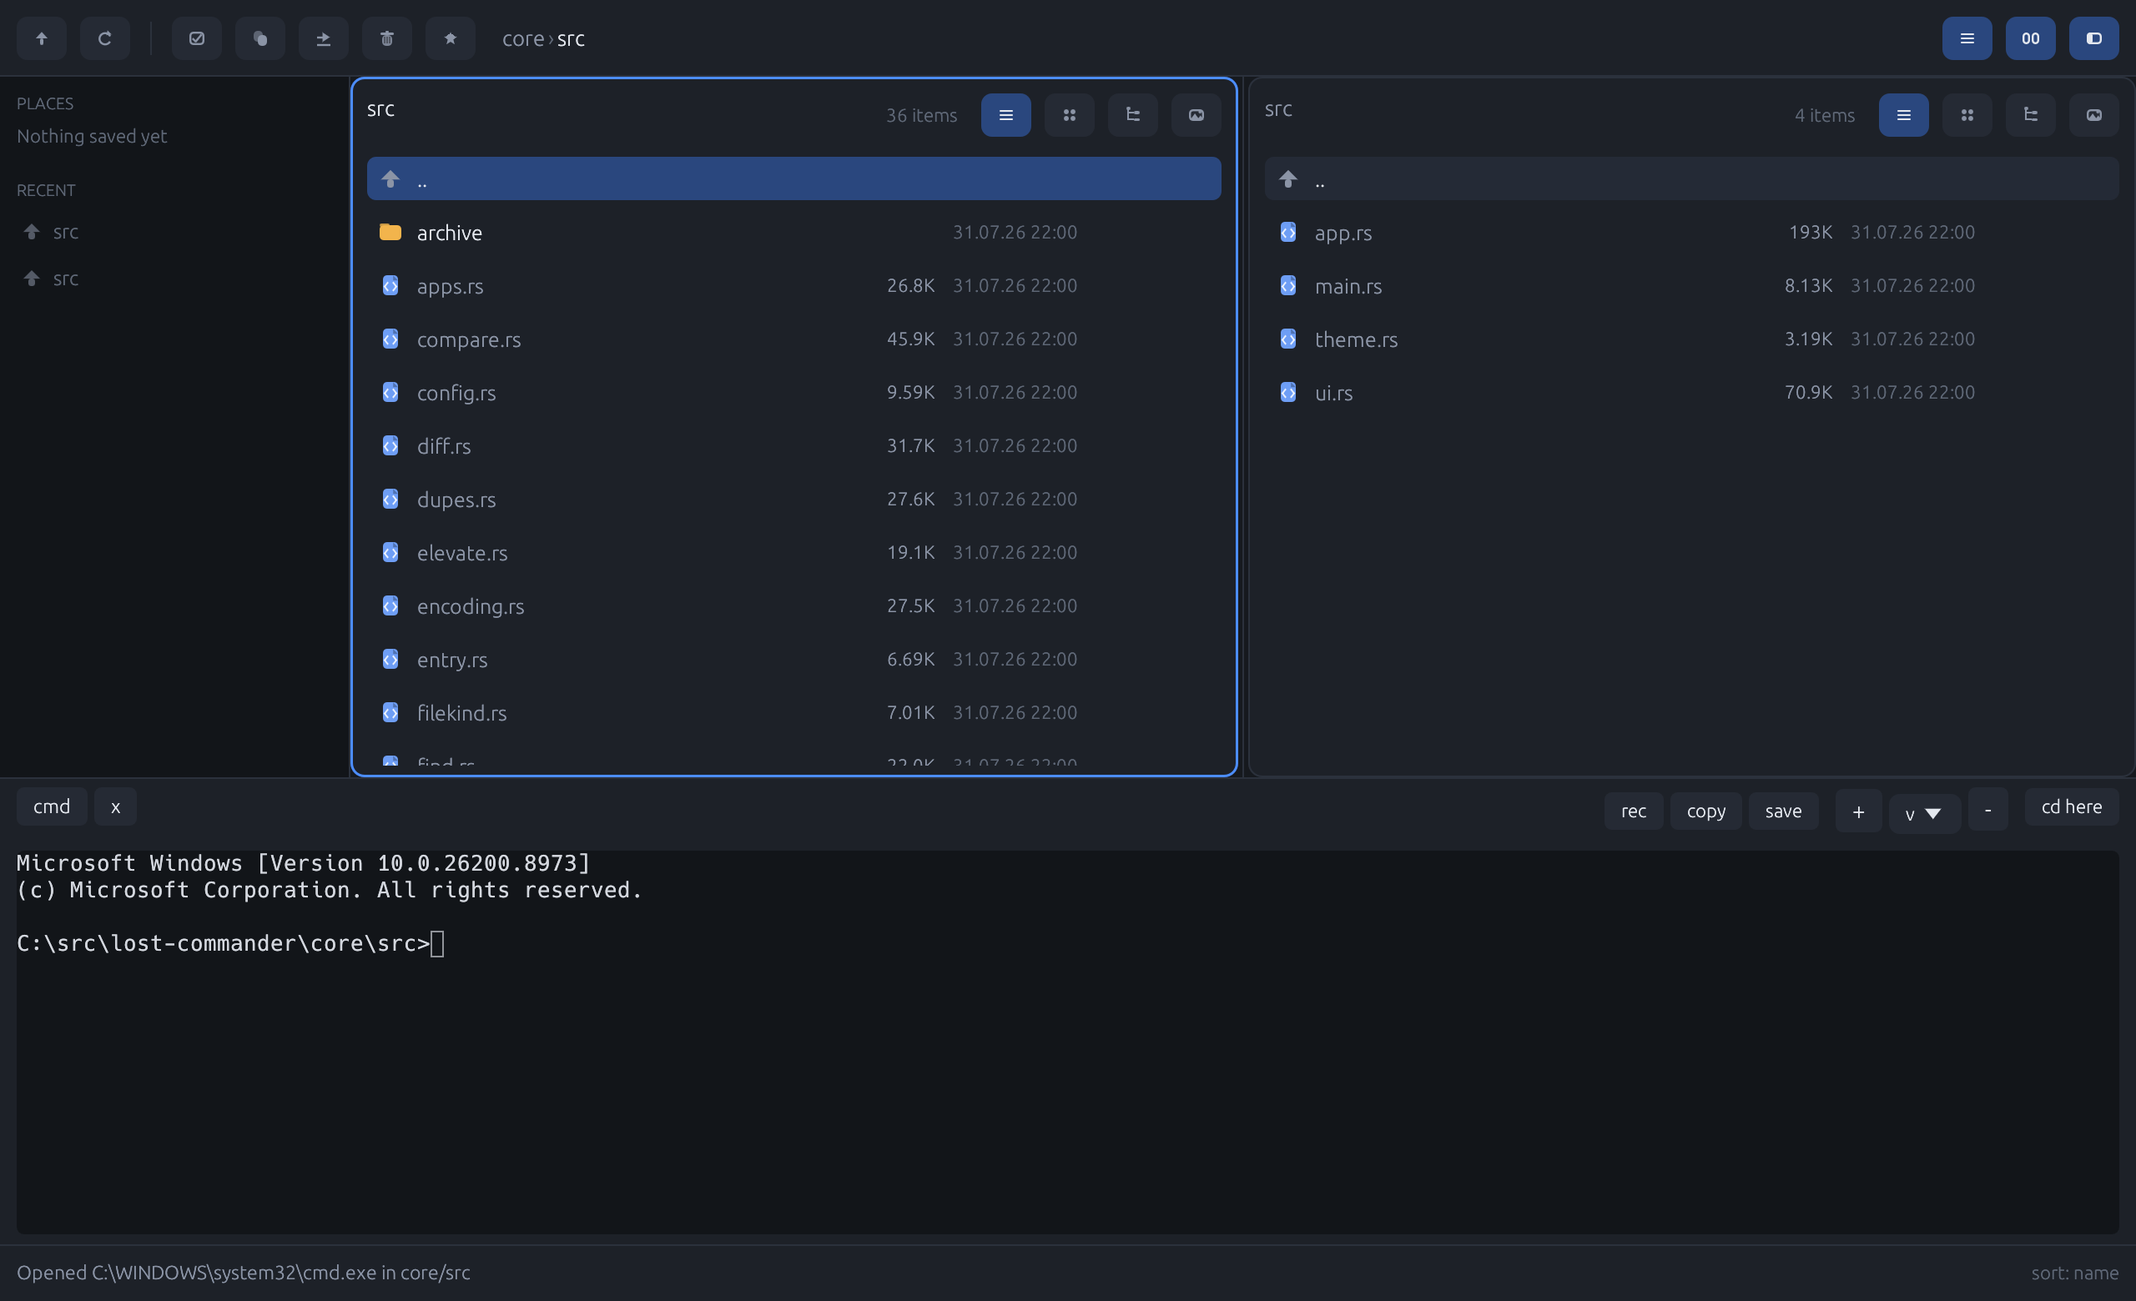
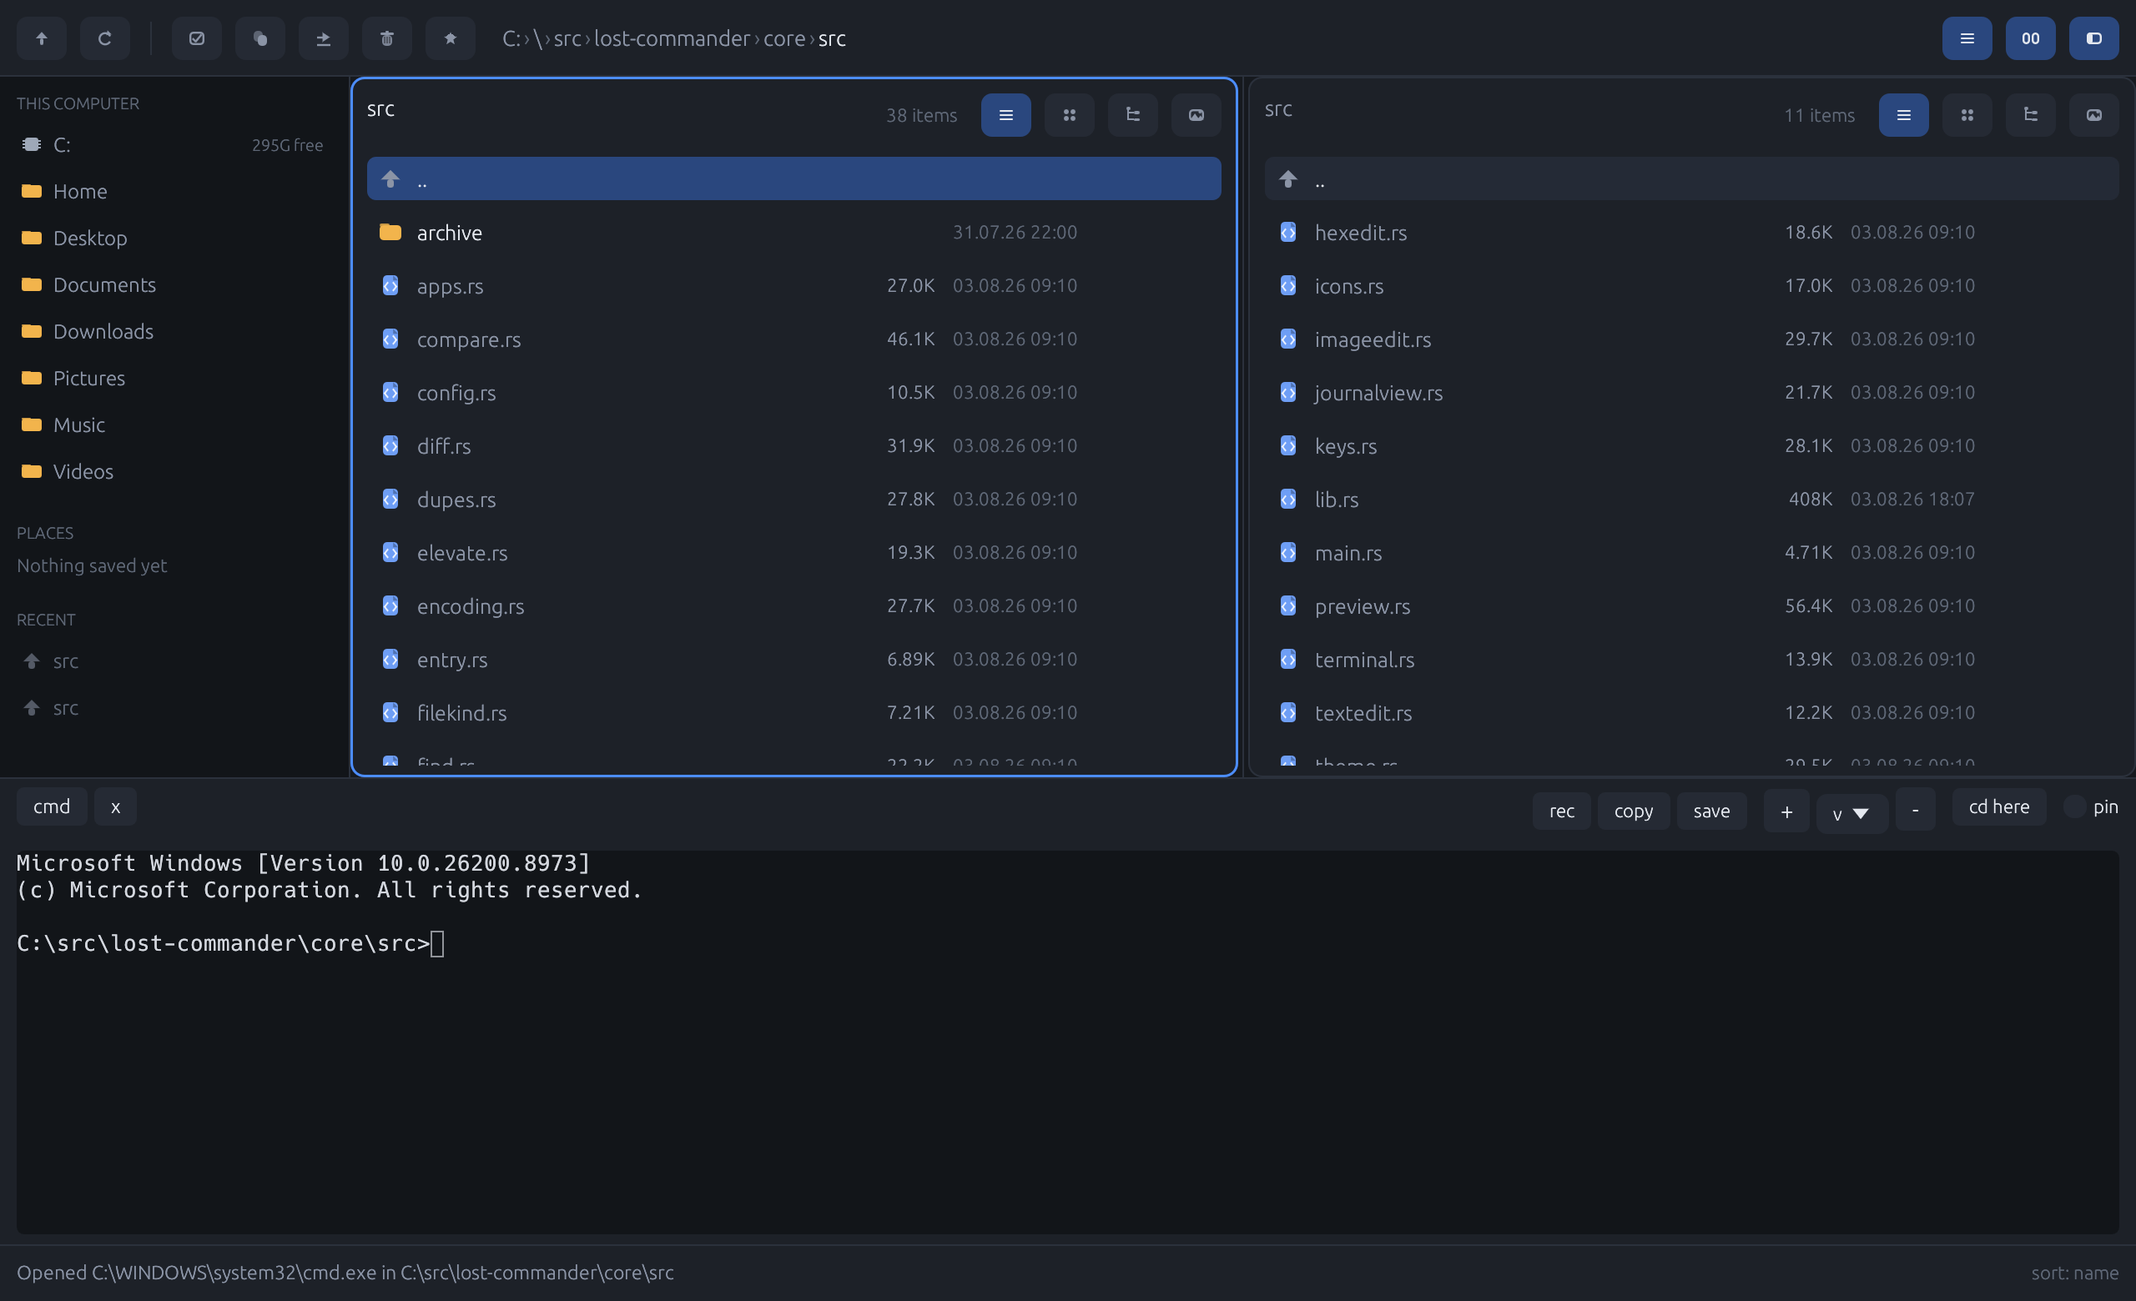
The terminal view can find the drives too, and a drive says what is left
`Ctrl-B` had Saved and Recent; it has a third tab now, This computer, holding
what `core::places` finds. The same gap as the sidebar had and the same fix:
without it the only route to a second drive is to know its letter and type
it.

The dialog now draws rows of name and description rather than
`netloc::Location`, because the three tabs are made of two different types and
the drawing never cared which.

Free space, on drives only. The C# front-end has shown it since it was
written - `DriveInfo` hands .NET the label, the free bytes and the drive type
for nothing - and asking the same question from Rust needs `statvfs` on Unix
and `GetDiskFreeSpaceEx` on Windows, which is what `fs4` is here for. It is
the only platform-API dependency in the engine and it earns it: how much room
is left is the first thing anybody wants of a drive.

Not on folders. The same figure under Documents, Downloads and Pictures says
nothing - they are all the same disk.

A drive that will not answer - an empty optical drive, a card reader with no
card - reports nothing rather than zero, which would read as a full disk.

The screenshot in the README is regenerated, since the sidebar it showed no
longer exists.

And a failure I nearly pushed: `tab_switches_between_saved_and_recent` broke
the moment there were three tabs, and my check summed the passing counts
without looking at whether anything had failed. The total dropped by eight
[…]

diff --git a/tui/src/app.rs b/tui/src/app.rs
@@ -143,13 +143,21 @@ impl RenameField {
 pub enum ConnTab {
     Saved,
     Recent,
+    /// The drives and folders this machine already has.
+    ///
+    /// Without them there is no way to reach a second drive except to know
+    /// its letter and type it - and on Windows there is no root to walk up to
+    /// that would reveal one, since `C:` and `D:` are two trees rather than
+    /// two directories.
+    System,
 }
 
 impl ConnTab {
     pub fn other(self) -> ConnTab {
         match self {
             ConnTab::Saved => ConnTab::Recent,
-            ConnTab::Recent => ConnTab::Saved,
+            ConnTab::Recent => ConnTab::System,
+            ConnTab::System => ConnTab::Saved,
         }
     }
 }
@@ -390,6 +398,12 @@ pub struct App {
     /// whatever directory it is given and forgets everything the last one
     /// did. Started on first use, because most of what this program does
     /// needs no shell at all and a pty costs a process.
+    /// The drives and folders this machine offers.
+    ///
+    /// Read once at startup: finding them asks each drive letter whether it
+    /// answers, and doing that on every keystroke is a thing you would hear a
+    /// spinning disk doing.
+    pub system_places: Vec<lost_commander_core::places::Place>,
     pub shell: Option<lost_commander_core::pty::PtySession>,
     /// Which shell to run, when the reader has chosen one.
     ///
@@ -505,6 +519,7 @@ impl App {
             command: String::new(),
             pending_edit: None,
             pending_shell: None,
+            system_places: lost_commander_core::places::system_places(),
             shell: None,
             shell_program: None,
             showing_shell: false,
@@ -3032,6 +3047,7 @@ impl App {
         let count = match tab_value {
             ConnTab::Saved => self.bookmarks.len(),
             ConnTab::Recent => self.bookmarks.recent.len(),
+            ConnTab::System => self.system_places.len(),
         };
 
         match key.code {
@@ -3057,6 +3073,16 @@ impl App {
                         self.error("No saved locations - press 'a' to add one");
                     } else {
                         self.connect_bookmark(cursor_value);
+                    }
+                }
+                ConnTab::System => {
+                    if let Some(place) = self.system_places.get(cursor_value) {
+                        let path = place.path.clone();
+                        self.mode = Mode::Normal;
+                        self.active_panel_mut().chdir(path.clone());
+                        if let Some(error) = self.active_panel().error.clone() {
+                            self.error(format!("{}: {error}", path.display()));
+                        }
                     }
                 }
                 ConnTab::Recent => {
@@ -3128,10 +3154,13 @@ impl App {
                         ConnTab::Recent => {
                             self.bookmarks.remove_recent(cursor_value);
                         }
+                        // A drive is not ours to forget.
+                        ConnTab::System => {}
                     }
                     let remaining = match tab_value {
                         ConnTab::Saved => self.bookmarks.len(),
                         ConnTab::Recent => self.bookmarks.recent.len(),
+                        ConnTab::System => self.system_places.len(),
                     };
                     self.mode = Mode::Connections {
                         tab: tab_value,
@@ -5516,7 +5545,7 @@ mod tests {
     }
 
     #[test]
-    fn tab_switches_between_saved_and_recent() {
+    fn tab_walks_the_three_lists_and_comes_back_round() {
         let (_root, mut app) = app_fixture();
         app.on_key(key(KeyCode::F(11)));
         match app.mode {
@@ -5533,11 +5562,29 @@ mod tests {
             _ => panic!("expected the connections screen"),
         }
 
+        // Three now: the machine's own drives and folders are the third,
+        // and are the only way to reach a second drive without knowing its
+        // letter and typing it.
+        app.on_key(key(KeyCode::Tab));
+        match app.mode {
+            Mode::Connections { tab, .. } => assert_eq!(tab, ConnTab::System),
+            _ => panic!("expected the connections screen"),
+        }
+
         app.on_key(key(KeyCode::Tab));
         match app.mode {
             Mode::Connections { tab, .. } => assert_eq!(tab, ConnTab::Saved),
             _ => panic!("expected the connections screen"),
         }
+    }
+
+    #[test]
+    fn the_machine_offers_at_least_one_place_to_go() {
+        // A drive is always there - the root on Unix, at least one letter on
+        // Windows - so an empty list means discovery is broken rather than
+        // that the machine has no disks.
+        let (_root, app) = app_fixture();
+        assert!(!app.system_places.is_empty());
     }
 
     #[test]

diff --git a/tui/src/ui.rs b/tui/src/ui.rs
@@ -2062,9 +2062,39 @@ fn shorten_path(path: &str, width: usize) -> String {
 }
 
 fn draw_connections(frame: &mut Frame, area: Rect, app: &App, tab: ConnTab, cursor: usize) {
-    let entries: &[lost_commander_core::netloc::Location] = match tab {
-        ConnTab::Saved => &app.bookmarks.locations,
-        ConnTab::Recent => &app.bookmarks.recent,
+    // Name and description, whatever the tab is made of: saved locations and
+    // recent ones are `netloc::Location`, the machine's own drives are
+    // `places::Place`, and the dialog draws rows rather than types.
+    let entries: Vec<(String, String)> = match tab {
+        ConnTab::Saved => app
+            .bookmarks
+            .locations
+            .iter()
+            .map(|l| (l.name.clone(), l.summary()))
+            .collect(),
+        ConnTab::Recent => app
+            .bookmarks
+            .recent
+            .iter()
+            .map(|l| (l.name.clone(), l.summary()))
+            .collect(),
+        ConnTab::System => app
+            .system_places
+            .iter()
+            .map(|place| {
+                let where_ = place.path.display().to_string();
+                match place.free {
+                    // How much room is left is the first thing anybody wants
+                    // of a drive, and there is nowhere else in this dialog to
+                    // put it.
+                    Some(free) => (
+                        place.name.clone(),
+                        format!("{where_}   {} free", human_size(free)),
+                    ),
+                    None => (place.name.clone(), where_),
+                }
+            })
+            .collect(),
     };
 
     let rows = entries.len().max(1);
@@ -2104,6 +2134,11 @@ fn draw_connections(frame: &mut Frame, area: Rect, app: &App, tab: ConnTab, curs
                 format!(" Recent ({}) ", app.bookmarks.recent.len()),
                 tab_style(tab == ConnTab::Recent),
             ),
+            Span::styled("  ", Style::default().bg(theme::DIALOG_BG)),
+            Span::styled(
+                format!(" This computer ({}) ", app.system_places.len()),
+                tab_style(tab == ConnTab::System),
+            ),
             Span::styled(
                 "   Tab switches",
                 Style::default().bg(theme::DIALOG_BG).fg(theme::TITLE_FG),
@@ -2116,6 +2151,7 @@ fn draw_connections(frame: &mut Frame, area: Rect, app: &App, tab: ConnTab, curs
         let message = match tab {
             ConnTab::Saved => "No saved locations yet - press 'a' to add one.",
             ConnTab::Recent => "Nowhere visited yet.",
+            ConnTab::System => "No drives found, which should not happen.",
         };
         frame.render_widget(
             Paragraph::new(message).style(Style::default().bg(theme::DIALOG_BG).fg(theme::FILE_FG)),
@@ -2125,14 +2161,11 @@ fn draw_connections(frame: &mut Frame, area: Rect, app: &App, tab: ConnTab, curs
         let items: Vec<ListItem> = entries
             .iter()
             .enumerate()
-            .map(|(index, location)| {
+            .map(|(index, (name, about))| {
                 let text = format!(
                     " {:<18} {}",
-                    fit(&location.name, 18),
-                    fit(
-                        &location.summary(),
-                        split[1].width.saturating_sub(21) as usize
-                    )
+                    fit(name, 18),
+                    fit(about, split[1].width.saturating_sub(21) as usize)
                 );
                 let style = if index == cursor {
                     Style::default()
@@ -2158,6 +2191,7 @@ fn draw_connections(frame: &mut Frame, area: Rect, app: &App, tab: ConnTab, curs
     let hints = match tab {
         ConnTab::Saved => "Enter go  a add  c add cwd  u unmount  d delete  Esc close",
         ConnTab::Recent => "Enter go  s save  d forget  C forget all  Esc close",
+        ConnTab::System => "Enter go  Tab next tab  Esc close",
     };
     frame.render_widget(
         Paragraph::new(Span::styled(

diff --git a/core/src/places.rs b/core/src/places.rs
@@ -37,6 +37,13 @@ pub struct Place {
     pub name: String,
     pub path: PathBuf,
     pub kind: Kind,
+    /// Bytes free on the disk this sits on, where that could be asked.
+    ///
+    /// How much room is left is the first thing anybody wants to know of a
+    /// drive, and the Commanders have shown it since there were floppies.
+    /// `None` for a folder - repeating the same figure under Documents,
+    /// Downloads and Pictures says nothing, since they are all the same disk.
+    pub free: Option<u64>,
 }
 
 /// The user's home and the well-known folders inside it.
@@ -51,6 +58,7 @@ pub fn user_places(home: Option<PathBuf>, folders: &[(&str, Option<PathBuf>)]) -
             name: "Home".to_string(),
             path: home,
             kind: Kind::Home,
+            free: None,
         });
     }
     for (name, path) in folders {
@@ -64,6 +72,7 @@ pub fn user_places(home: Option<PathBuf>, folders: &[(&str, Option<PathBuf>)]) -
             name: (*name).to_string(),
             path: path.clone(),
             kind: Kind::Folder,
+            free: None,
         });
     }
     out
@@ -91,6 +100,7 @@ pub fn drives(
                 if exists(&path) {
                     out.push(Place {
                         name: format!("{}:", letter as char),
+                        free: free_on(&path),
                         path,
                         kind: Kind::Drive,
                     });
@@ -100,6 +110,7 @@ pub fn drives(
         platform => {
             out.push(Place {
                 name: "/".to_string(),
+                free: free_on(Path::new("/")),
                 path: PathBuf::from("/"),
                 kind: Kind::Drive,
             });
@@ -132,6 +143,7 @@ pub fn drives(
                     }
                     out.push(Place {
                         name,
+                        free: free_on(&path),
                         path,
                         kind: Kind::Drive,
                     });
@@ -140,6 +152,16 @@ pub fn drives(
         }
     }
     out
+}
+
+/// Bytes free on the disk holding `path`, or `None` if it will not say.
+///
+/// A drive that is not ready - an empty optical drive, a card reader with no
+/// card - answers with an error rather than a number, and asking again will
+/// not help. `None` is the honest result, and a front-end showing nothing
+/// beats one showing zero, which reads as a full disk.
+pub fn free_on(path: &Path) -> Option<u64> {
+    fs4::available_space(path).ok()
 }
 
 /// Everything this machine offers, for a sidebar.
@@ -226,5 +248,31 @@ mod tests {
         // A service account may have none, and a sidebar with only drives is
         // still a useful sidebar.
         assert!(user_places(None, &[("Downloads", None)]).is_empty());
+    }
+
+    #[test]
+    fn a_drive_says_how_much_room_is_left_and_a_folder_does_not() {
+        // Repeating the same figure under Documents, Downloads and Pictures
+        // says nothing: they are all the same disk.
+        let places = system_places();
+        let drive = places.iter().find(|p| p.kind == Kind::Drive);
+        if let Some(drive) = drive {
+            assert!(
+                drive.free.is_some(),
+                "a mounted drive knows: {}",
+                drive.path.display()
+            );
+        }
+        assert!(places
+            .iter()
+            .filter(|p| p.kind == Kind::Folder)
+            .all(|p| p.free.is_none()));
+    }
+
+    #[test]
+    fn a_drive_that_will_not_say_is_not_reported_as_empty() {
+        // An optical drive with no disc in it answers with an error, and
+        // showing zero would read as a full disk rather than an unknown one.
+        assert_eq!(free_on(Path::new("Z:\no-such-drive")), None);
     }
 }

diff --git a/egui/src/lib.rs b/egui/src/lib.rs
@@ -2187,7 +2187,10 @@ impl GuiApp {
                     places::Kind::Home => icons::Kind::Folder,
                     places::Kind::Folder => icons::Kind::Folder,
                 };
-                if sidebar_row(ui, &place.name, icon, false) {
+                let free = place
+                    .free
+                    .map(|bytes| format!("{} free", human_size(bytes)));
+                if sidebar_row_with(ui, &place.name, icon, false, free) {
                     target = Some(place.path.clone());
                 }
             }
@@ -7154,6 +7157,20 @@ fn section_label(ui: &mut egui::Ui, text: &str) {
 }
 
 fn sidebar_row(ui: &mut egui::Ui, label: &str, kind: icons::Kind, dim: bool) -> bool {
+    sidebar_row_with(ui, label, kind, dim, None)
+}
+
+/// As [`sidebar_row`], with something written along the right-hand edge.
+///
+/// Used for how much room is left on a drive - the first thing anybody wants
+/// to know of one, and shown since there were floppies to run out of.
+fn sidebar_row_with(
+    ui: &mut egui::Ui,
+    label: &str,
+    kind: icons::Kind,
+    dim: bool,
+    trailing: Option<String>,
+) -> bool {
     let (rect, response) =
         ui.allocate_exact_size(Vec2::new(ui.available_width(), 22.0), Sense::click());
     if response.hovered() {
@@ -7176,6 +7193,15 @@ fn sidebar_row(ui: &mut egui::Ui, label: &str, kind: icons::Kind, dim: bool) -> 
             theme::text_dim()
         },
     );
+    if let Some(trailing) = trailing {
+        ui.painter().text(
+            egui::pos2(rect.right() - 6.0, rect.center().y),
+            Align2_RIGHT_CENTER,
+            trailing,
+            FontId::proportional(10.0),
+            theme::text_faint(),
+        );
+    }
     response.clicked()
 }
 

diff --git a/README.md b/README.md
@@ -206,7 +206,7 @@ changes it.
 ## Testing
 
 ```sh
-cargo test                     # all 1009, from the workspace root
+cargo test                     # all 1039, from the workspace root
 ```
 
 From the root that is everything, because the root is a virtual manifest and
@@ -217,9 +217,9 @@ say `cargo test --workspace` there if you meant all of it.
 Per crate, when you want a fast loop:
 
 ```sh
-cargo test -p lost-commander-core    # 611 - the engine, seconds to build
-cargo test -p lost-commander-egui    # 190 - the graphical view
-cargo test -p lost-commander-tui     # 102 - the terminal view
+cargo test -p lost-commander-core    # 629 - the engine, seconds to build
+cargo test -p lost-commander-egui    # 194 - the graphical view
+cargo test -p lost-commander-tui     # 110 - the terminal view
 cargo test -p lost-commander-ffi     # 106 - the C ABI
 ```
 

diff --git a/CHANGELOG.md b/CHANGELOG.md
@@ -9,6 +9,9 @@ Notable changes, newest first. Versions follow [semantic versioning]; until
 
 ### Added
 
+- **Both front-ends can find the machine's drives.** The graphical one lists
+  them in the sidebar; the terminal one has a third tab in `Ctrl-B`, beside
+  Saved and Recent. Drives say how much room is left.
 - **The sidebar shows what the machine has**: drives and volumes, then Home,
   Desktop, Documents, Downloads, Pictures, Music and Videos. Without them the
   only route to a second drive was typing its letter — and on Windows there is
